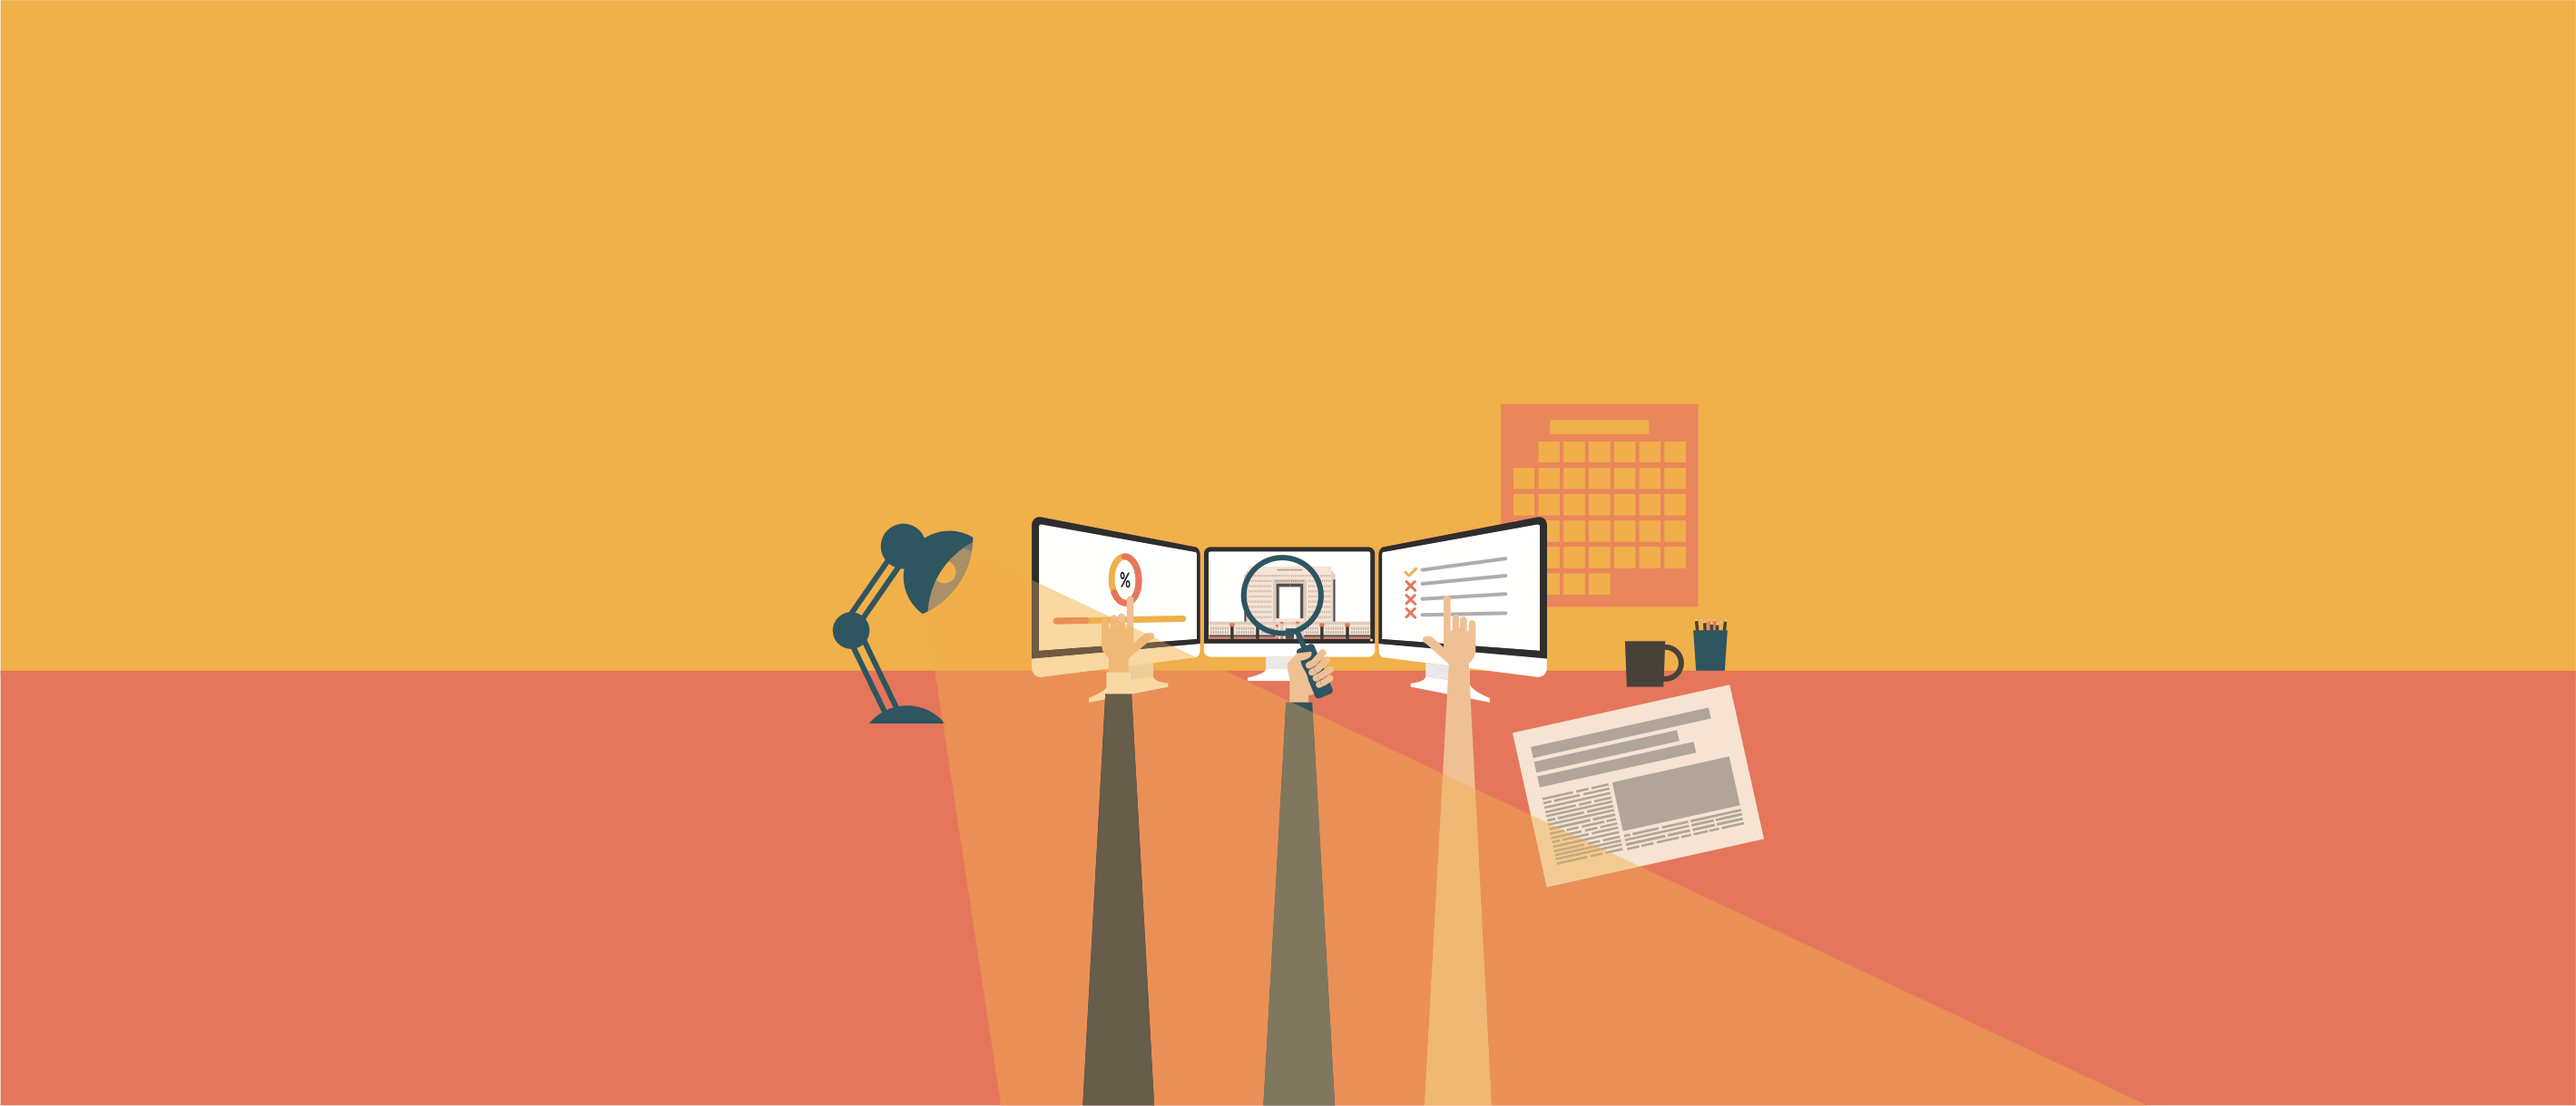
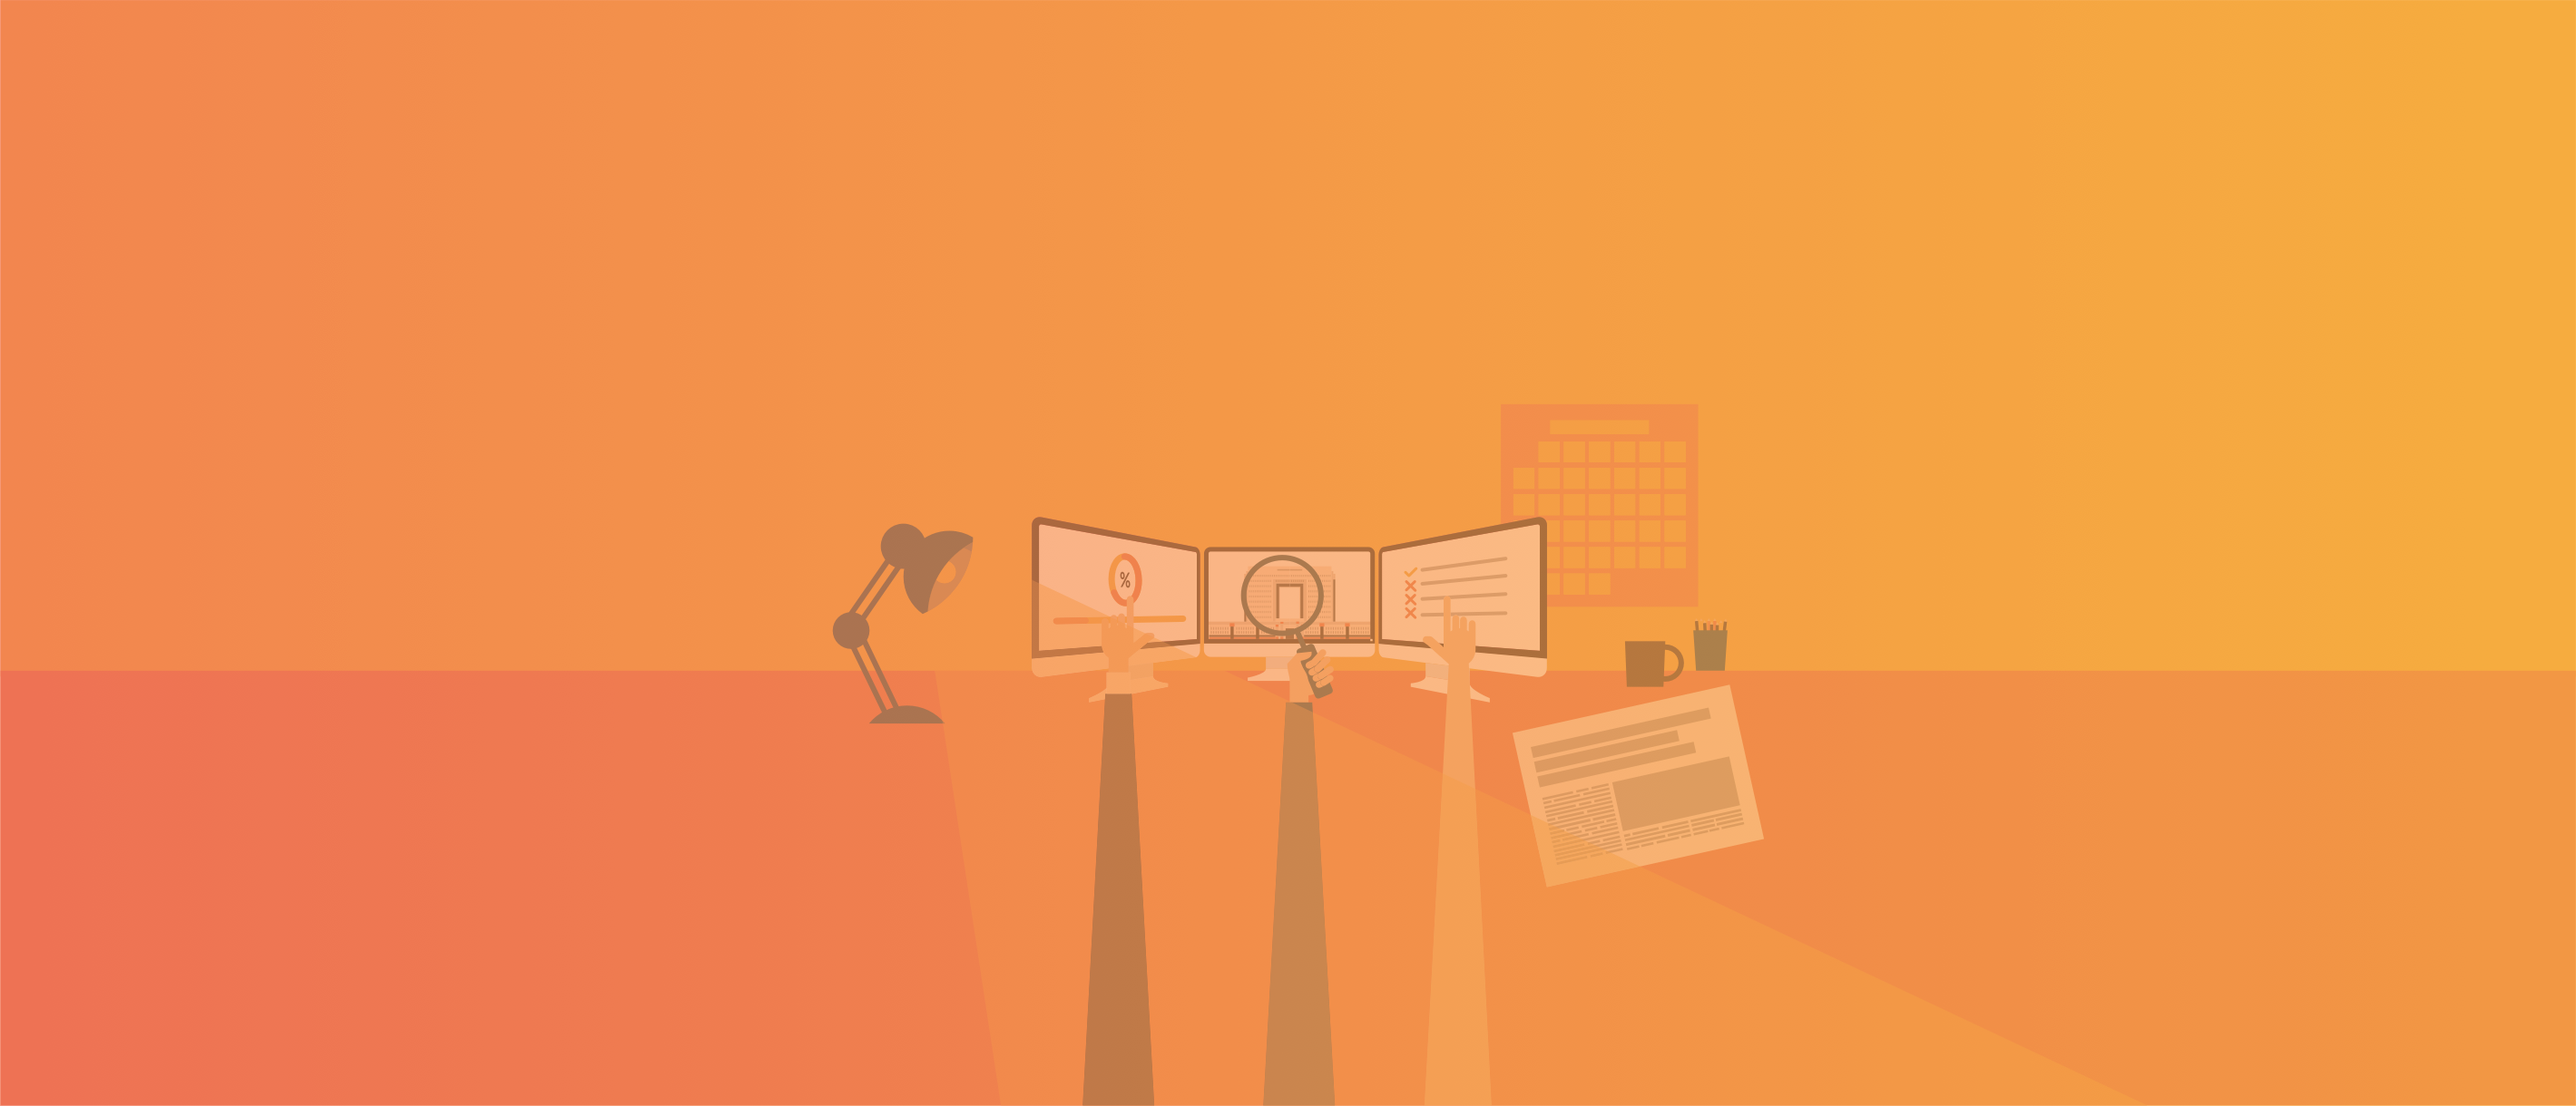
Update jumbotron background image

diff --git a/_sass/_base.scss b/_sass/_base.scss
@@ -258,14 +258,13 @@ small {
 
 #welcome {
     background-position: center;
-    background-position-y: -380px;
+    background-position-y: -240px;
     background-repeat: no-repeat;
     max-height: 780px;
     background-image: url(../img/header.png);
 }
 
 .jumbotron {
-    background: linear-gradient(45deg, rgba(245, 124, 93, 0.8), rgba(249, 181, 66, 0.9));
     background-color: transparent;
     background-position: center;
     background-repeat: no-repeat;
@@ -956,7 +955,7 @@ footer .col-md-4{
 @media screen and (max-width: 600px) {
   #welcome {
     background-position: center;
-    background-position-y: -330px;
+    background-position-y: -120px;
   }
 }
 
